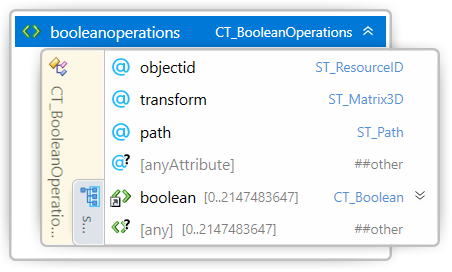
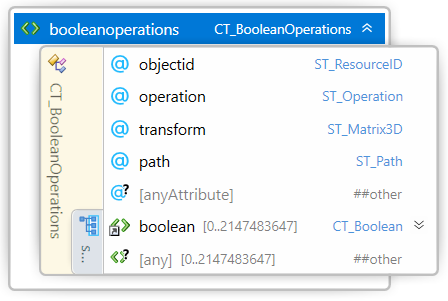
updated boolean operations

diff --git a/3MF Boolean operations.md b/3MF Boolean operations.md
@@ -68,11 +68,13 @@ See [the 3MF Core Specification software conformance](https://github.com/3MFCons
 
 The 3MF Core Specification defines the \<components> element in the \<object> resource as definition of a logical association of different objects to form an assembly, with the intent to allow reuse of model definitions for an efficient encoding. The resultant shape of a \<components> element is the aggregation (union) of each \<component> object element.
 
-This extension is based in a simplified Constructive Solid Geometry ([CSG](https://en.wikipedia.org/wiki/Constructive_solid_geometry)) by limiting the scope of the subtracting boolean operations: difference and intersect.
+This extension is based in a simplified Constructive Solid Geometry ([CSG](https://en.wikipedia.org/wiki/Constructive_solid_geometry)) by limiting the scope of the boolean operations described in the following diagram:
 
 ![CSG binary tree](images/Csg_tree.png)
 
-This document describes a new element \<booleanoperations> in the \<object> elements that specify options subtracting operations. This element is OPTIONAL for producers but MUST be supported by consumers that specify support for the 3MF Boolean Operations Extension.
+The boolean operations are restricted as the boolean operating objects to the base object MUST only reference mesh objects. While the base object to which apply the boolean operations MIGHT BE of any object type.
+
+This document describes a new element \<booleanoperations> in the \<object> elements that specifies a new object type, other than a mesh or components. This element is OPTIONAL for producers but MUST be supported by consumers that specify support for the 3MF Boolean Operations Extension.
 
 To avoid data loss while parsing, a 3MF package which uses referenced objects MUST enlist the 3MF Boolean Operations Extension as “required extension”, as defined in the core specification. However, if the 3MF Boolean Operations Extension is not enlisted a required, any consumer non-supporting the 3MF Boolean Operations Extension may be able to process the rest of the document.
 
@@ -89,6 +91,7 @@ Element \<booleanoperations>
 | Name   | Type   | Use   | Default   | Annotation |
 | --- | --- | --- | --- | --- |
 | objectid | **ST\_ResourceID** | required | | It references the object object id to apply the boolean operations |
+| operation | **ST\_Operation** | required | | Subtracting boolean operation |
 | transform | **ST\_Matrix3D** | | | A matrix transform (see [3.3. 3D Matrices](#33-3d-matrices)) applied to the item to be outputted. |
 | path | **ST\_Path** | | | A file path to the object file being referenced. The path is an absolute path from the root of the 3MF container. |
 | @anyAttribute | | | | |
@@ -96,6 +99,20 @@ Element \<booleanoperations>
 The optional \<booleanoperations> element contains one or more \<boolean> elements to perform subtractive boolean operations to the mesh or components elements in the enclosing object.
 
 **objectid** - Selects the object with the base object to be subtracted.
+
+**operation** - The subtracting boolean operation to perform. The options for the subtracting operations are the following:
+
+1.	*union*. The new object shape is defined as the merger of the shapes. The new object surface property is defined by the property of the surface property defining the outer surface. If material and the volumetric property, if available, in the overlapped volume is defined by the added object, as defined by [the 3MF Core Specification overlapping order](https://github.com/3MFConsortium/spec_core/blob/1.2.3/3MF%20Core%20Specification.md#412-overlapping-order)
+
+    union(base,a,b,c) = ((base Ս a) Ս b) Ս c = base Ս (a Ս b Ս c)
+
+2.  *difference*. The new object shape is defined by the shape in the first object shape that is not in any other object shape. The new object surface property, where overlaps, is defined by the object surface property of the subtracting object(s). While the volume properties are defined by the volume remaining from the base object.
+
+    difference(base,a,b,c) = ((base - a) - b) - c = base - (a Ս b Ս c)
+
+3.  *intersection*. The new object shape is defined as the common (clipping) shape in all objects. The new object surface property is defined as the object surface property of the object defining the new surface. While the volume properties are defined by the volume remaining from the base object.
+
+    intersection(base,a,b,c) = ((base Ո a) Ո b) Ո c = base Ո (a Ս b Ս c)
 
 **transform** - The transform to apply to the selected base object.
 
@@ -112,22 +129,13 @@ Element \<boolean>
 | Name   | Type   | Use   | Default   | Annotation |
 | --- | --- | --- | --- | --- |
 | objectid | **ST\_ResourceID** | required | | It references the mesh object id performing the boolean operation. |
-| operation | **ST\_Operation** | required | | Subtracting boolean operation |
 | transform | **ST\_Matrix3D** | | | A matrix transform (see [3.3. 3D Matrices](#33-3d-matrices)) applied to the item to be outputted. |
 | path | **ST\_Path** | | | A file path to the model file being referenced. The path is an absolute path from the root of the 3MF container. |
 | @anyAttribute | | | | |
 
-The \<boolean> element selects a pre-defined object resource to perform a boolean operation to the mesh or component tree in the enclosing object.
+The \<boolean> element selects a pre-defined object resource to perform a boolean operation to the base object referenced in the enclosing \<booleanoperations> element.
 
-**objectid** - Selects the object with the mesh to subtract. The object MUST be a triangle mesh object of type "model" (i.e. not a components object), and MUST NOT contain a Boolean Operation.
-
-**operation** - The subtracting boolean operation to perform. The options for the subtracting operations are the following:
-
-1.  *difference*. The new object shape is defined by the shape in the enclosing object shape that is not in the subtracting object shape. The new object surface property, where overlaps, is defined by the object surface property of the subtracting object(s).
-
-2.  *intersection*. The new object shape is defined as the common (clipping) shape in all objects. The new object surface property is defined as the object surface property of the object clipping that surface.
-
->**Note:** The "operation" attribute does not define a *union* operation, since it is implicit performed by the components tree, as defined by [the 3MF Core Specification Components](https://github.com/3MFConsortium/spec_core/blob/1.2.3/3MF%20Core%20Specification.md#42-components).
+**objectid** - Selects the object with the mesh to subtract. The object MUST be a mesh object of type "model" (i.e. not a components or another boolean operations object.
 
 **transform** - The transform to apply to the selected object before the boolean operation.
 
@@ -182,6 +190,7 @@ See [the 3MF Core Specification glossary](https://github.com/3MFConsortium/spec_
       <xs:any namespace="##other" processContents="lax" minOccurs="0" maxOccurs="2147483647"/>
     </xs:sequence>
     <xs:attribute name="objectid" type="ST_ResourceID" use="required"/>
+    <xs:attribute name="operation" type="ST_Operation" use="required"/>
     <xs:attribute name="transform" type="ST_Matrix3D"/>
     <xs:attribute name="path" type="ST_Path"/>
     <xs:anyAttribute namespace="##other" processContents="lax"/>
@@ -189,7 +198,6 @@ See [the 3MF Core Specification glossary](https://github.com/3MFConsortium/spec_
 
   <xs:complexType name="CT_Boolean">
     <xs:attribute name="objectid" type="ST_ResourceID" use="required"/>
-    <xs:attribute name="operation" type="ST_Operation" use="required"/>
     <xs:attribute name="transform" type="ST_Matrix3D"/>
     <xs:attribute name="path" type="ST_Path"/>
     <xs:anyAttribute namespace="##other" processContents="lax"/>
@@ -198,11 +206,29 @@ See [the 3MF Core Specification glossary](https://github.com/3MFConsortium/spec_
   <!-- Simple Types -->
   <xs:simpleType name="ST_Operation">
     <xs:restriction base="xs:string">
+      <xs:enumeration value="union"/>
       <xs:enumeration value="difference"/>
       <xs:enumeration value="intersection"/>
     </xs:restriction>
   </xs:simpleType>  
 
+  <xs:simpleType name="ST_Matrix3D">
+    <xs:restriction base="xs:string">
+      <xs:whiteSpace value="collapse"/>
+      <xs:pattern value="((\-|\+)?(([0-9]+(\.[0-9]+)?)|(\.[0-9]+))((e|E)(\-|\+)?[0-9]+)?) ((\-|\+)?(([0-9]+(\.[0-9]+)?)|(\.[0-9]+))((e|E)(\-|\+)?[0-9]+)?) ((\-|\+)?(([0-9]+(\.[0-9]+)?)|(\.[0-9]+))((e|E)(\-|\+)?[0-9]+)?) ((\-|\+)?(([0-9]+(\.[0-9]+)?)|(\.[0-9]+))((e|E)(\-|\+)?[0-9]+)?) ((\-|\+)?(([0-9]+(\.[0-9]+)?)|(\.[0-9]+))((e|E)(\-|\+)?[0-9]+)?) ((\-|\+)?(([0-9]+(\.[0-9]+)?)|(\.[0-9]+))((e|E)(\-|\+)?[0-9]+)?) ((\-|\+)?(([0-9]+(\.[0-9]+)?)|(\.[0-9]+))((e|E)(\-|\+)?[0-9]+)?) ((\-|\+)?(([0-9]+(\.[0-9]+)?)|(\.[0-9]+))((e|E)(\-|\+)?[0-9]+)?) ((\-|\+)?(([0-9]+(\.[0-9]+)?)|(\.[0-9]+))((e|E)(\-|\+)?[0-9]+)?) ((\-|\+)?(([0-9]+(\.[0-9]+)?)|(\.[0-9]+))((e|E)(\-|\+)?[0-9]+)?) ((\-|\+)?(([0-9]+(\.[0-9]+)?)|(\.[0-9]+))((e|E)(\-|\+)?[0-9]+)?) ((\-|\+)?(([0-9]+(\.[0-9]+)?)|(\.[0-9]+))((e|E)(\-|\+)?[0-9]+)?)"/>
+    </xs:restriction>
+  </xs:simpleType>
+  
+  <xs:simpleType name="ST_ResourceID">
+    <xs:restriction base="xs:positiveInteger">
+      <xs:maxExclusive value="2147483648"/>
+    </xs:restriction>
+  </xs:simpleType>
+  
+  <xs:simpleType name="ST_Path">
+    <xs:restriction base="xs:string"> </xs:restriction>
+  </xs:simpleType>
+  
   <!-- Elements -->
   <xs:element name="object" type="CT_Object"/>
   <xs:element name="booleanoperations" type="CT_BooleanOperations"/>
@@ -249,15 +275,15 @@ See [the 3MF Core Specification glossary](https://github.com/3MFConsortium/spec_
             </mesh>
         </object>
         <object id="6" type="model" name="Intersected">
-            <bo:booleanoperations objectid="3" transform="0.0741111 0 0 0 0.0741111 0 0 0 0.0741111 2.91124 -0.400453 1.60607">
-                <bo:boolean objectid="4" bo:operation="intersection" transform="0.0741111 0 0 0 0.0741111 0 0 0 0.0741111 2.91124 -0.400453 1.60607"/>
+            <bo:booleanoperations objectid="3" bo:operation="intersection" transform="0.0741111 0 0 0 0.0741111 0 0 0 0.0741111 2.91124 -0.400453 1.60607">
+                <bo:boolean objectid="4" transform="0.0741111 0 0 0 0.0741111 0 0 0 0.0741111 2.91124 -0.400453 1.60607"/>
             </bo:booleanoperations>
         </object>
         <object id="10" type="model" name="Full part">
-            <bo:booleanoperations objectid="6">
-                <bo:boolean objectid="5" bo:operation="difference" transform="0.0271726 0 0 0 0 0.0271726 0 -0.0680034 0 4.15442 3.58836 5.23705" />
-                <bo:boolean objectid="5" bo:operation="difference" transform="0.0272014 0 0 0 0.0272012 0 0 0 0.0680035 4.05357 6.33412 3.71548" />
-                <bo:boolean objectid="5" bo:operation="difference" transform="0 0 -0.0272013 0 0.0272013 0 0.0680032 0 0 5.05103 6.32914 3.35287" />
+            <bo:booleanoperations objectid="6" bo:operation="difference">
+                <bo:boolean objectid="5" transform="0.0271726 0 0 0 0 0.0271726 0 -0.0680034 0 4.15442 3.58836 5.23705" />
+                <bo:boolean objectid="5" transform="0.0272014 0 0 0 0.0272012 0 0 0 0.0680035 4.05357 6.33412 3.71548" />
+                <bo:boolean objectid="5" transform="0 0 -0.0272013 0 0.0272013 0 0.0680032 0 0 5.05103 6.32914 3.35287" />
             </bo:booleanoperations>
         </object>
     </resources>
